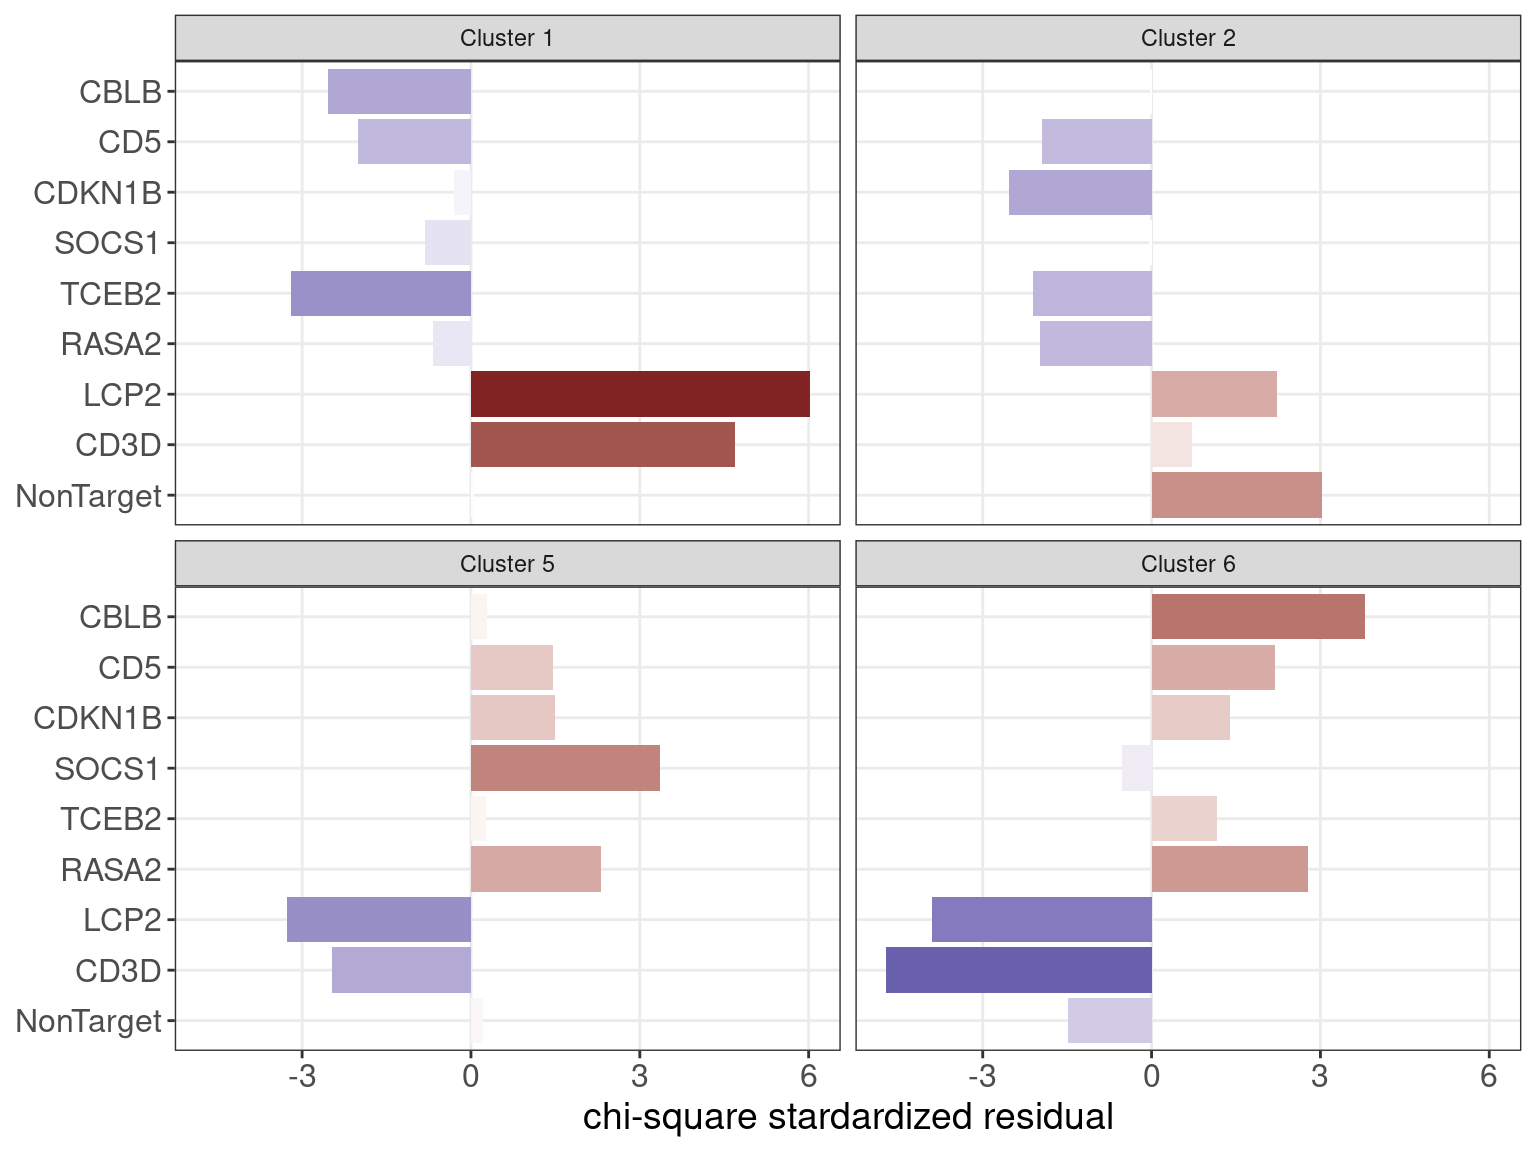
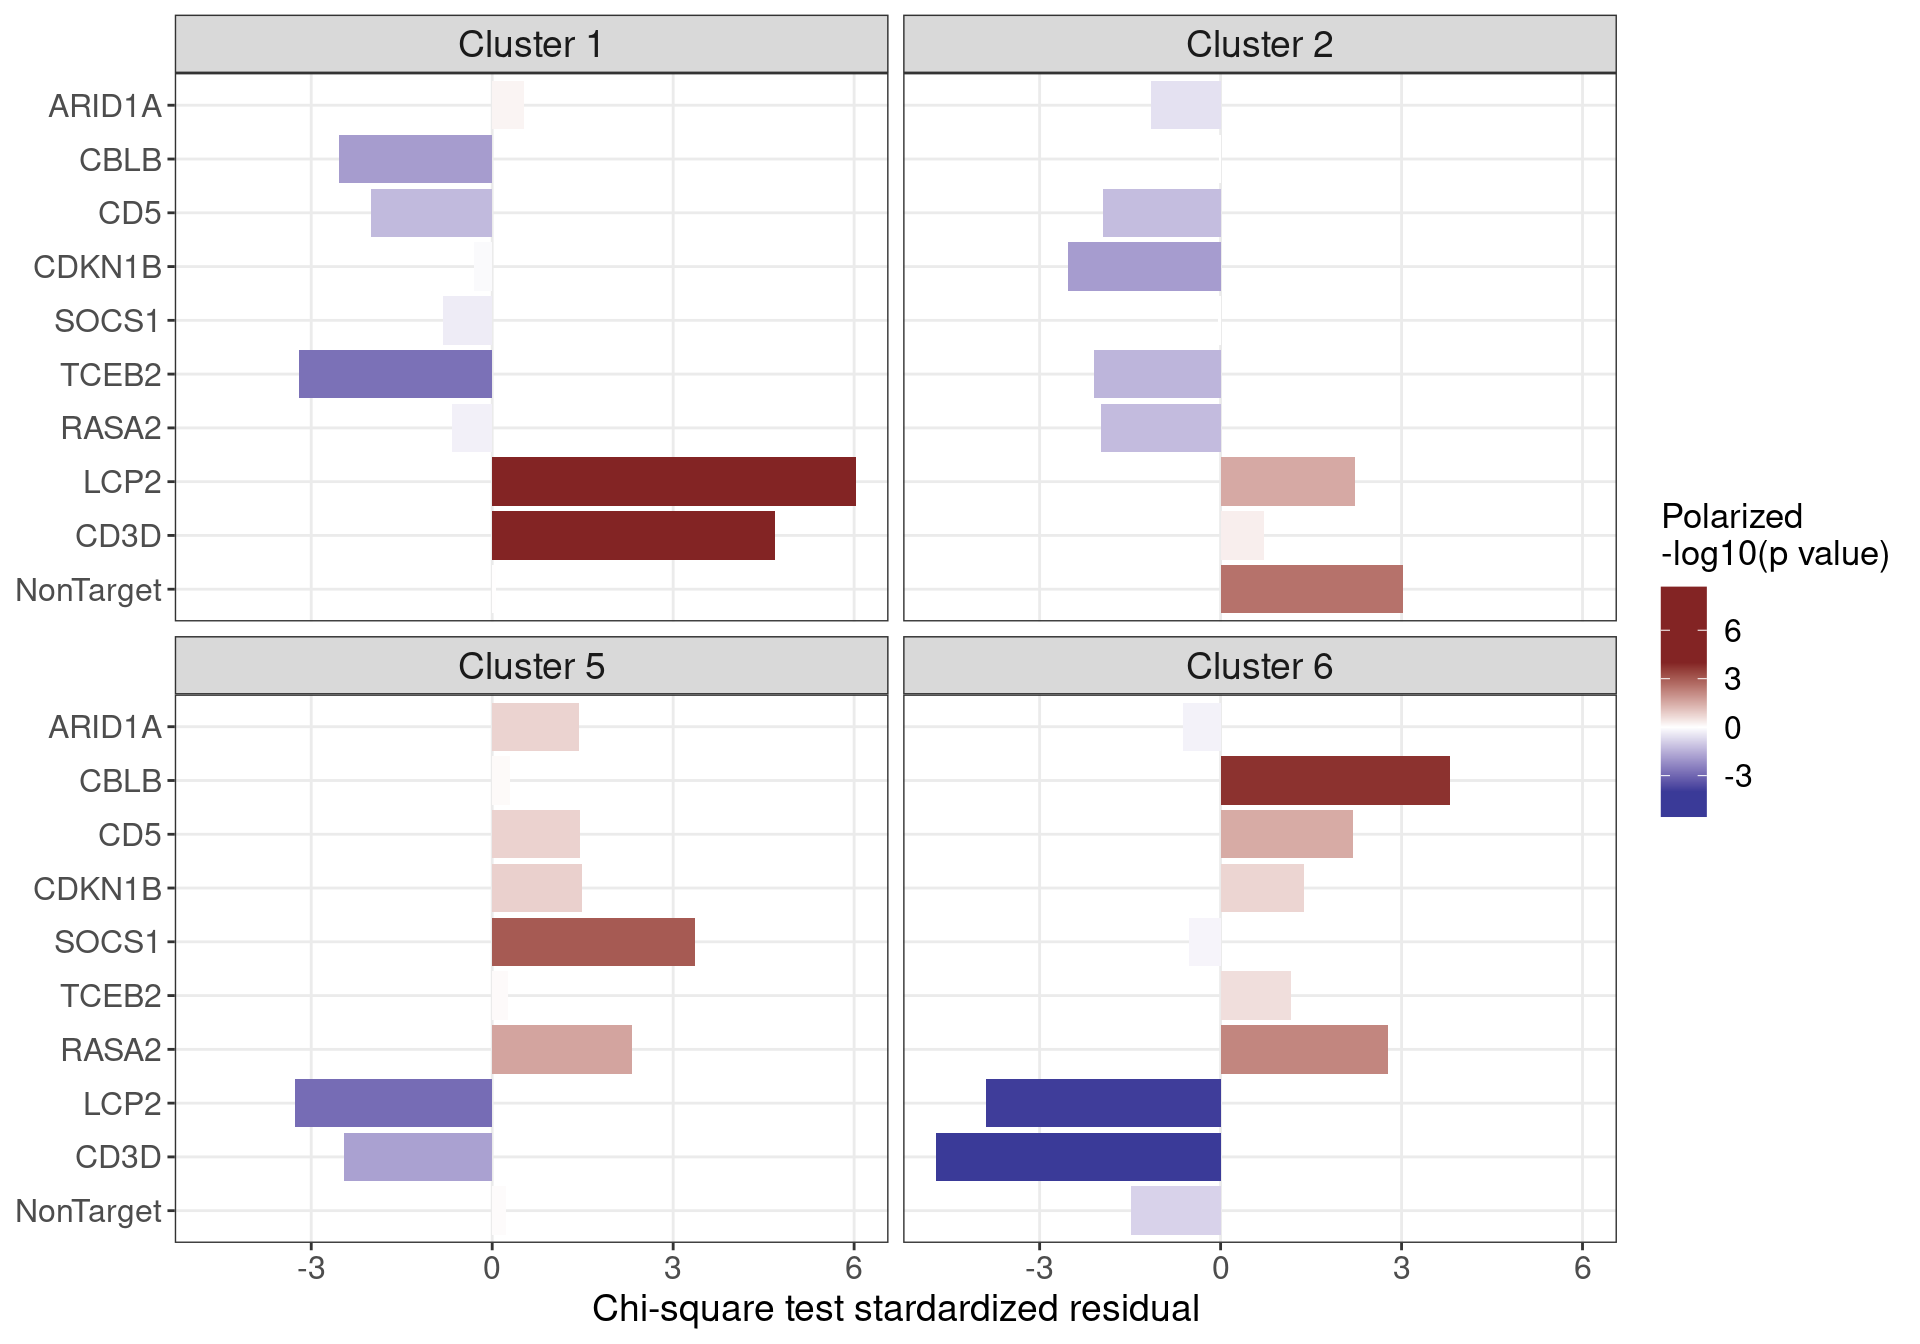
T cell clustering approach

Changed region(s): [[0.0, 0.0, 1.0, 1.0], [0.5312, 0.0938, 0.75, 0.2188], [0.9375, 0.9062, 0.9688, 0.9375]]

diff --git a/docs/All_TCells_clustering.html b/docs/All_TCells_clustering.html
@@ -356,7 +356,7 @@ All cells were pooled together into 1 analysis.</p>
 <h1><span class="header-section-number">2</span> scRNA-seq data</h1>
 <div id="preprocessing" class="section level2">
 <h2><span class="header-section-number">2.1</span> Preprocessing</h2>
-<p>There are 24955 cells with a single type of gRNA readout using the quality control criteria of % mitochondria gene expression &lt; 10 and number of unique gene count &gt; 500.</p>
+<p>There are 24955 cells with a single type of gRNA readout using the quality control criteria of % mitochondria gene expression &lt; 10 and number of unique genes &gt; 500.</p>
 <p><img src="All_TCells_clustering_files/figure-html/QC-1.png" width="768" style="display: block; margin: auto;" /></p>
 <p>Gene expressions were normalized as log(count per <span class="math inline">\(10^4\)</span> + 1), and then scaled.</p>
 <p><strong>Library size and mitochondria percentage were corrected for, while batch effect was not.</strong></p>
@@ -371,18 +371,20 @@ All cells were pooled together into 1 analysis.</p>
 <p>Running Louvain algorithm... Maximum modularity in 10 random starts: 0.8667 Number of communities: 8 Elapsed time: 4 seconds <img src="All_TCells_clustering_files/figure-html/umap_cell_clusters-1.png" width="672" style="display: block; margin: auto;" /></p>
 <p>Expression patterns of marker genes:<br />
 activation state (IL7R, CCR7), cell cycle (MKI67), and effector function (GZMB) in the reference paper. <img src="All_TCells_clustering_files/figure-html/umap_marker_genes-1.png" width="1152" style="display: block; margin: auto;" /></p>
-<p>Cluster 1, 2 and 3: resting cell states</p>
+<p>Cluster 1, 2 and 3: resting state</p>
 <p>Cluste 5 and 6: proliferation</p>
 </div>
 </div>
 <div id="crispr-perturbations" class="section level1">
 <h1><span class="header-section-number">3</span> CRISPR Perturbations</h1>
 <p><img src="All_TCells_clustering_files/figure-html/num_gRNA_cells-1.png" width="768" style="display: block; margin: auto;" /></p>
-<div id="overunder-representation-of-grnas-in-clusters" class="section level2">
-<h2><span class="header-section-number">3.1</span> Over/Under-Representation of gRNAs in Clusters</h2>
+<div id="overunder-representation-of-grna-targets-in-clusters" class="section level2">
+<h2><span class="header-section-number">3.1</span> Over/Under-Representation of gRNA Targets in Clusters</h2>
+<p>Number of chi-square tests that passed Bonferroni FWER of 0.05:</p>
+<p>[1] 5</p>
 <p><img src="All_TCells_clustering_files/figure-html/chisq_test_heatmap-1.png" width="768" style="display: block; margin: auto;" /></p>
 <p>Selected clusters and gRNA targets:</p>
-<p><img src="All_TCells_clustering_files/figure-html/chisq_test_barplot_selected-1.png" width="768" style="display: block; margin: auto;" /></p>
+<p><img src="All_TCells_clustering_files/figure-html/chisq_test_barplot_selected-1.png" width="960" style="display: block; margin: auto;" /></p>
 </div>
 </div>
 
